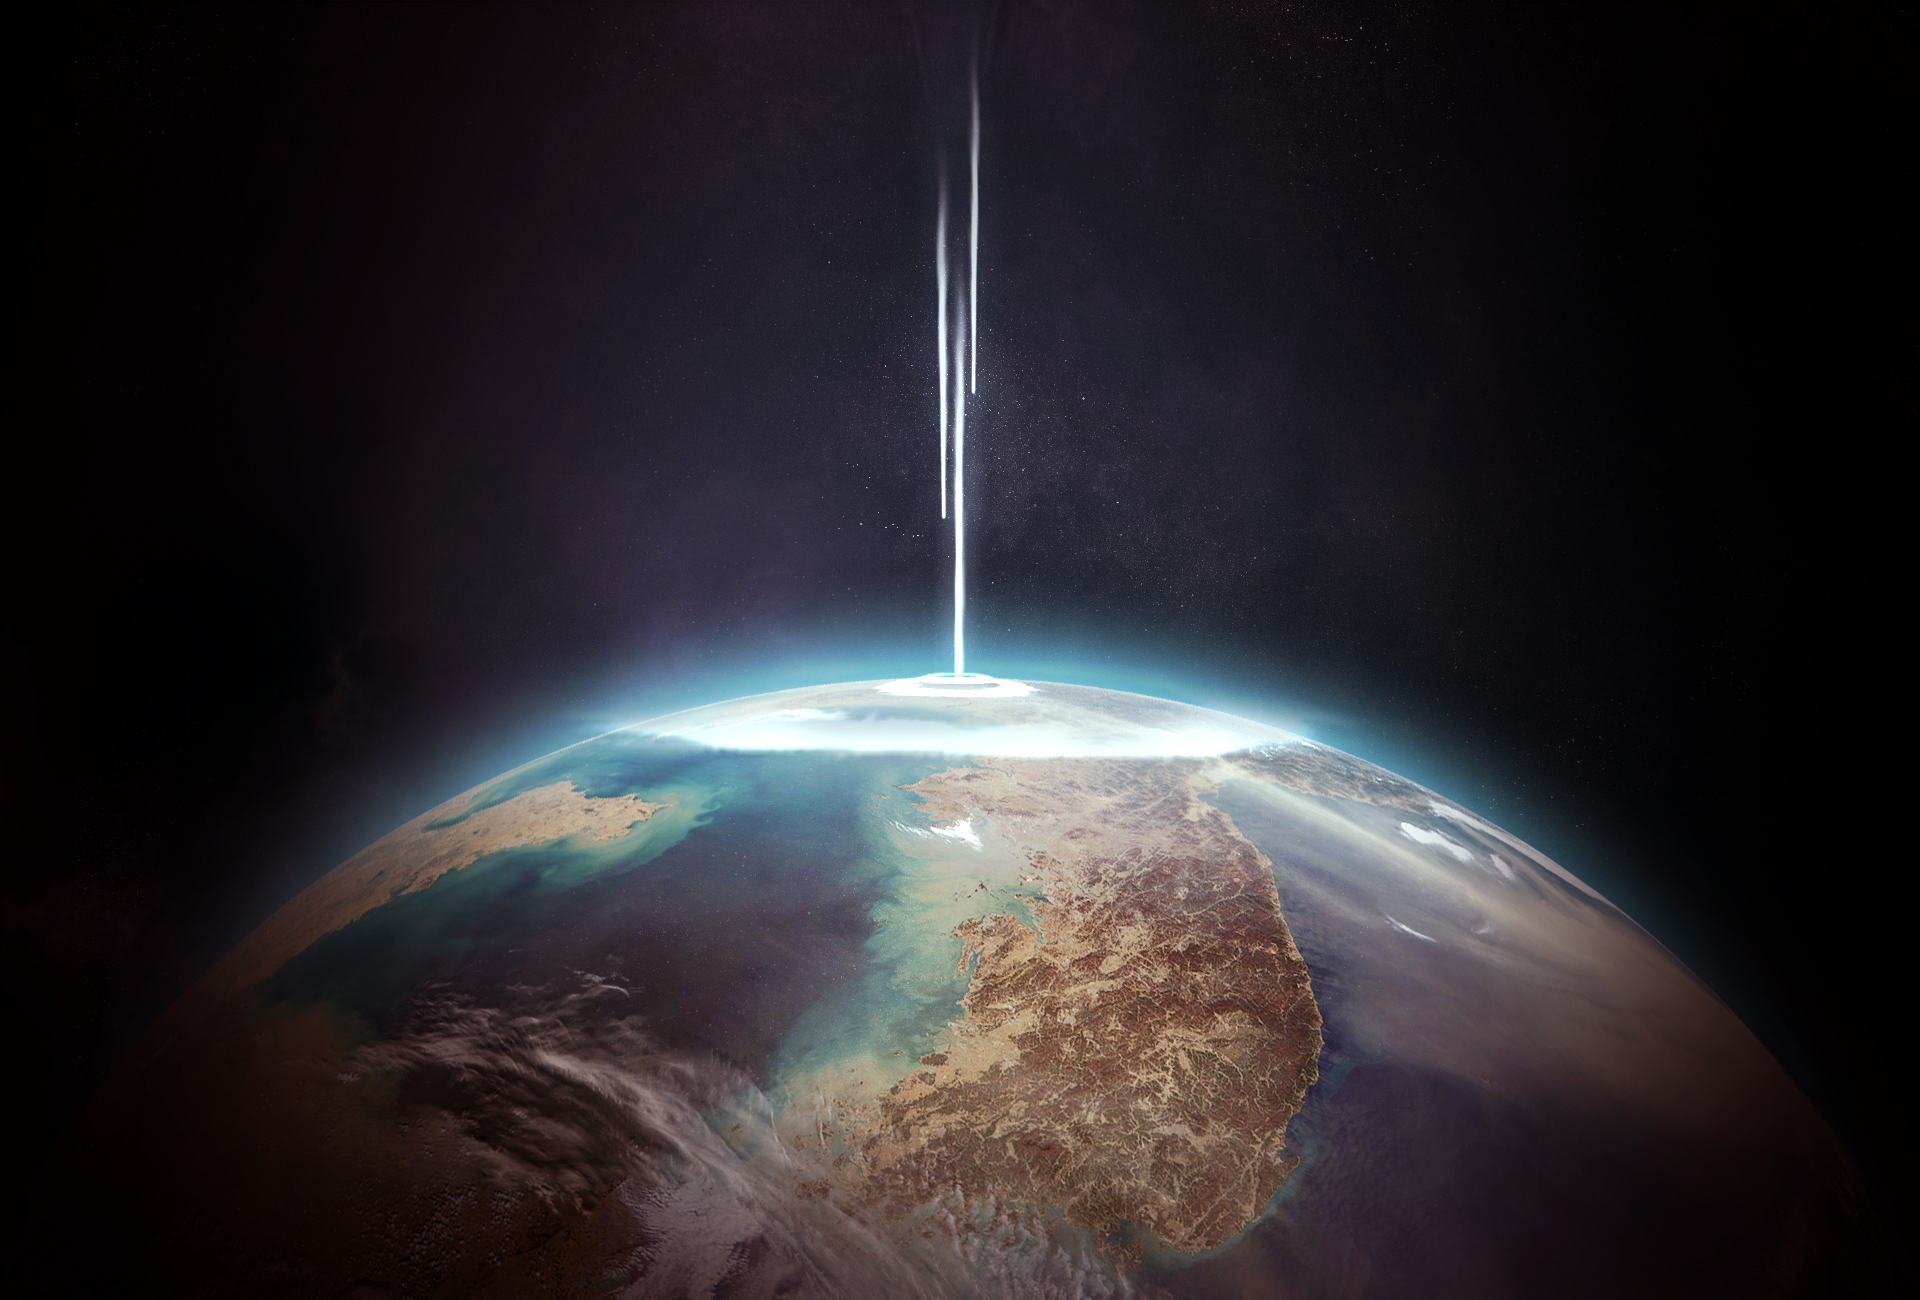
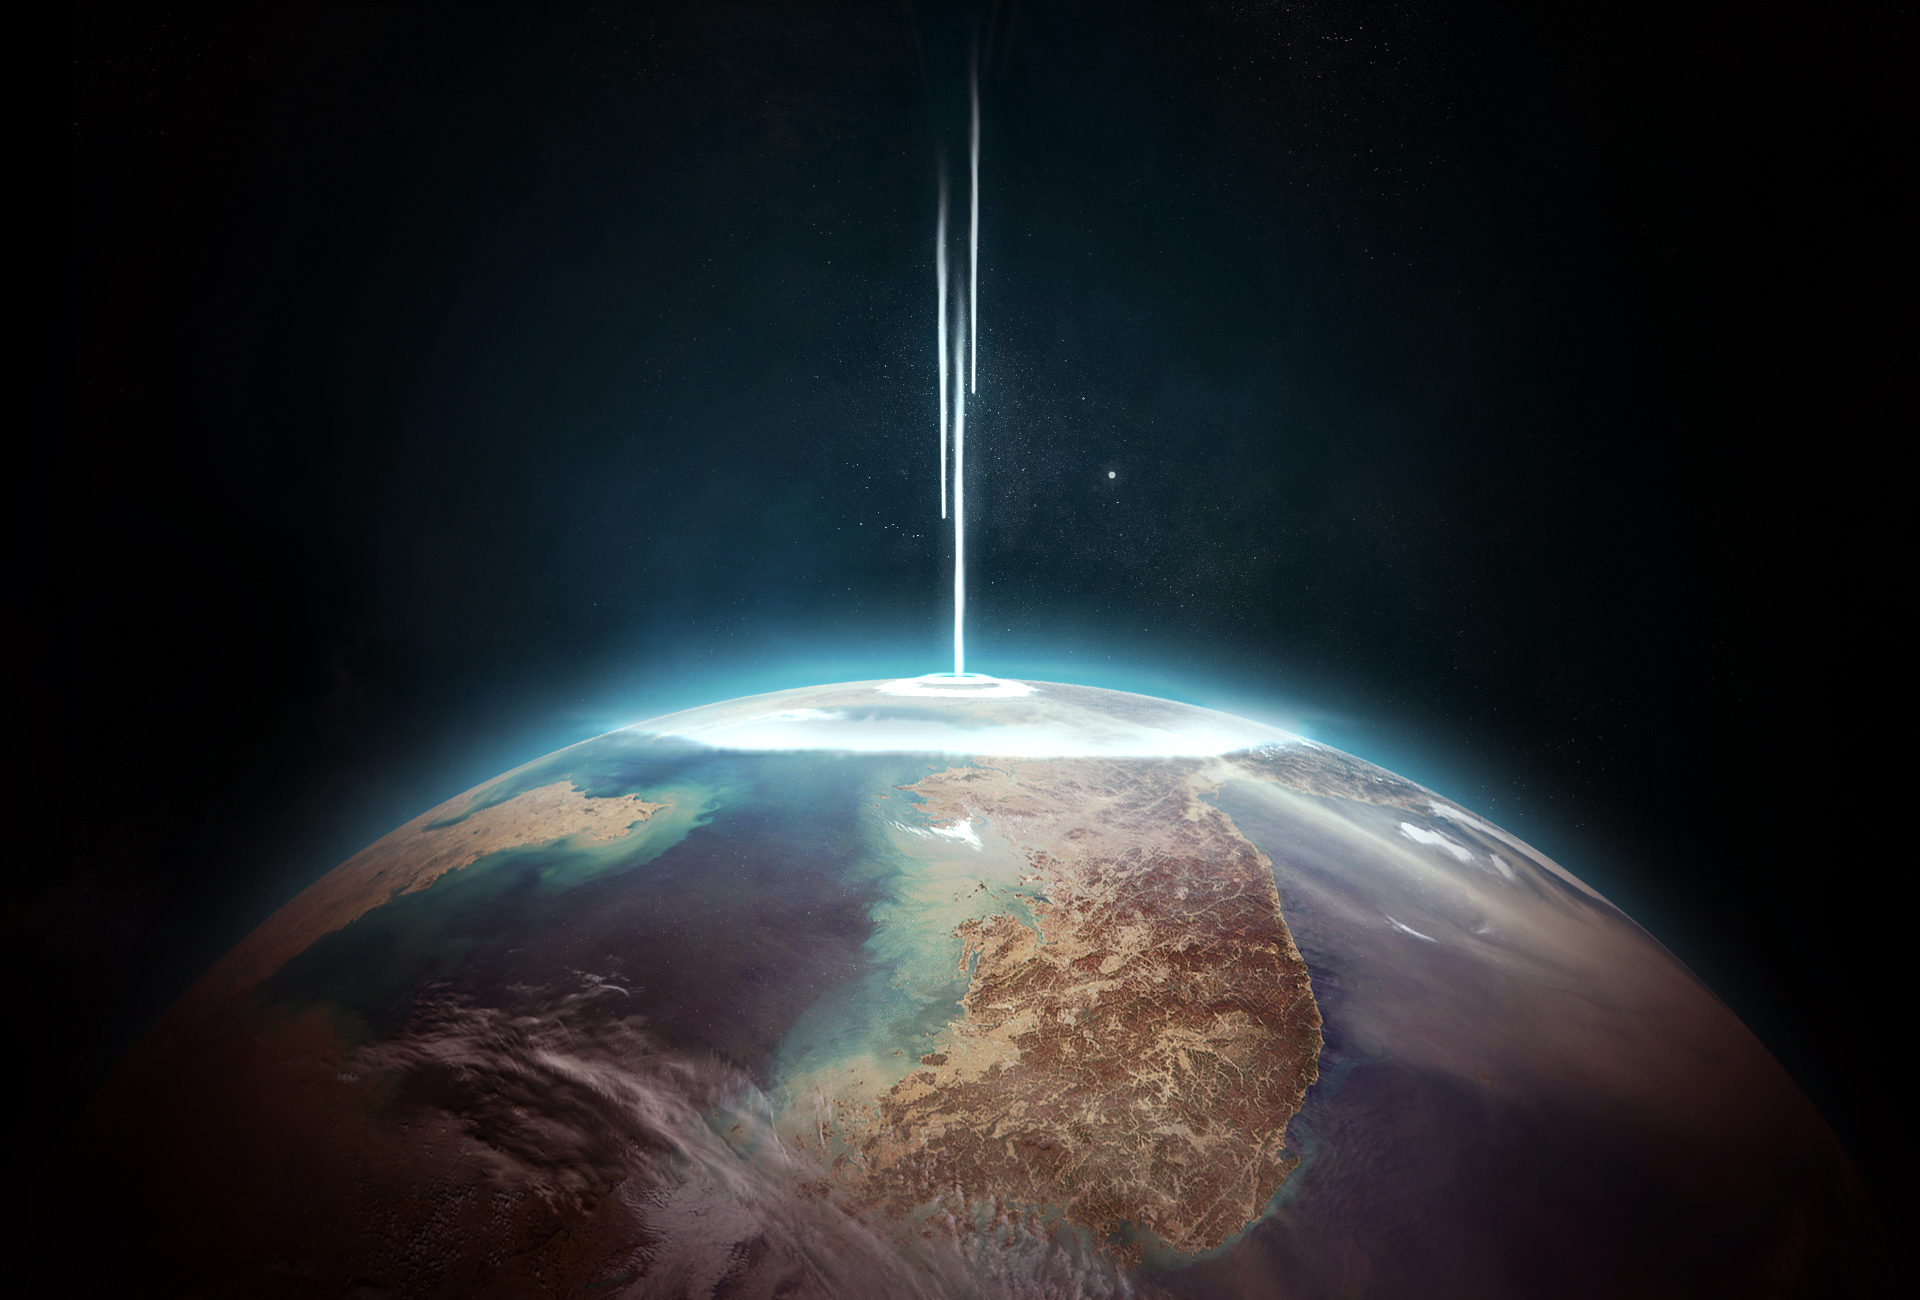
tweaked background, added content to about

Changed region(s): [[0.2812, 0.0, 0.625, 0.5538]]

diff --git a/src/pages/about.jsx b/src/pages/about.jsx
@@ -2,12 +2,22 @@ import React from 'react'
 import Helmet from 'react-helmet'
 import { Header, Container, Layout } from 'components'
 import config from '../../config/website'
+import portrait from '../images/portrait.png'
+import Styled from 'react-emotion'
+
+const ImgWrapper = Styled.div`
+  display: flex;
+  justify-content: center;
+`
 
 const About = () => (
   <Layout>
     <Helmet title={`About | ${config.siteTitle}`} />
     <Header color={'#332849'}>About</Header>
     <Container type='text'>
+      <ImgWrapper>
+        <img src={portrait} alt='portrait' />
+      </ImgWrapper>
       <h1>Hi!</h1>
       <p>
         My name is Louis Sanchez and I am a designer, developer, and artist living in New York.

diff --git a/src/components/HomeHeader.jsx b/src/components/HomeHeader.jsx
@@ -8,6 +8,7 @@ import {
 } from 'react-device-detect'
 import { css } from 'emotion'
 import Img from 'gatsby-image'
+import { Stars } from 'components'
 import { Trail, config, animated } from 'react-spring'
 import Rellax from 'rellax'
 
@@ -18,7 +19,8 @@ const Wrapper = styled.div`
   position:relative;
   height: 0px;
   display: flex;
-  justify-content: center;
+  align-items: center;
+  flex-direction: column;
   z-index: 1;
 `
 
@@ -182,6 +184,7 @@ class Header extends React.Component {
     return (
       <React.Fragment>
         <Wrapper>
+
           <Title>
             <LeftSide>
               <Name />

diff --git a/src/pages/index.jsx b/src/pages/index.jsx
@@ -2,18 +2,15 @@ import React from 'react'
 import { graphql } from 'gatsby'
 import PropTypes from 'prop-types'
 import { ProjectListing, Layout, HomeHeader } from 'components'
-import { ParallaxProvider } from 'react-scroll-parallax'
 import { injectGlobal, css } from 'emotion'
 
 const Index = ({
   data: { allMarkdownRemark: { edges: projectEdges }, headerImg, headerImg2 }
 }) => (
-  <ParallaxProvider>
     <Layout dark>
       <HomeHeader headerImg={headerImg} headerImg2={headerImg2} />
       <ProjectListing projectEdges={projectEdges} />
     </Layout>
-  </ParallaxProvider>
 )
 
 export default Index

diff --git a/src/components/Stars.jsx b/src/components/Stars.jsx
@@ -1,11 +1,17 @@
-import React from 'React'
-import { injectGlobal } from 'emotion'
+import React from 'react'
+import { injectGlobal, css } from 'emotion'
+
+const stars = css`
+position: relative; 
+`
 
 export default () => (
   <React.Fragment>
-    <div id='stars' />
-    <div id='stars2' />
-    <div id='stars3' />
+    <div className={css`position: relative;`}>
+      <div id='stars' className={stars} />
+      <div id='stars2' className={stars} />
+      <div id='stars3' className={stars} />
+    </div>
   </React.Fragment>
 )
 

diff --git a/src/components/Footer.jsx b/src/components/Footer.jsx
@@ -16,7 +16,7 @@ const Wrapper = styled.footer`
 
 const Footer = ({ dark }) => (
   <Wrapper dark={dark}>
-    Copyright © 2018. All right reserved. Pictures by Unsplash.{' '}
+    Copyright © 2018. All rights reserved.
     <a href='https://github.com/LeKoArts/gatsby-starter-portfolio-emma'>
       Emma Theme
     </a>

diff --git a/src/components/ProjectListing.jsx b/src/components/ProjectListing.jsx
@@ -5,7 +5,6 @@ import styled from 'react-emotion'
 import Img from 'gatsby-image'
 import sample from 'lodash/sample'
 import { overlay } from '../../config/theme'
-import { Parallax } from 'react-scroll-parallax'
 import { css } from 'emotion'
 
 const Wrapper = styled.div`
